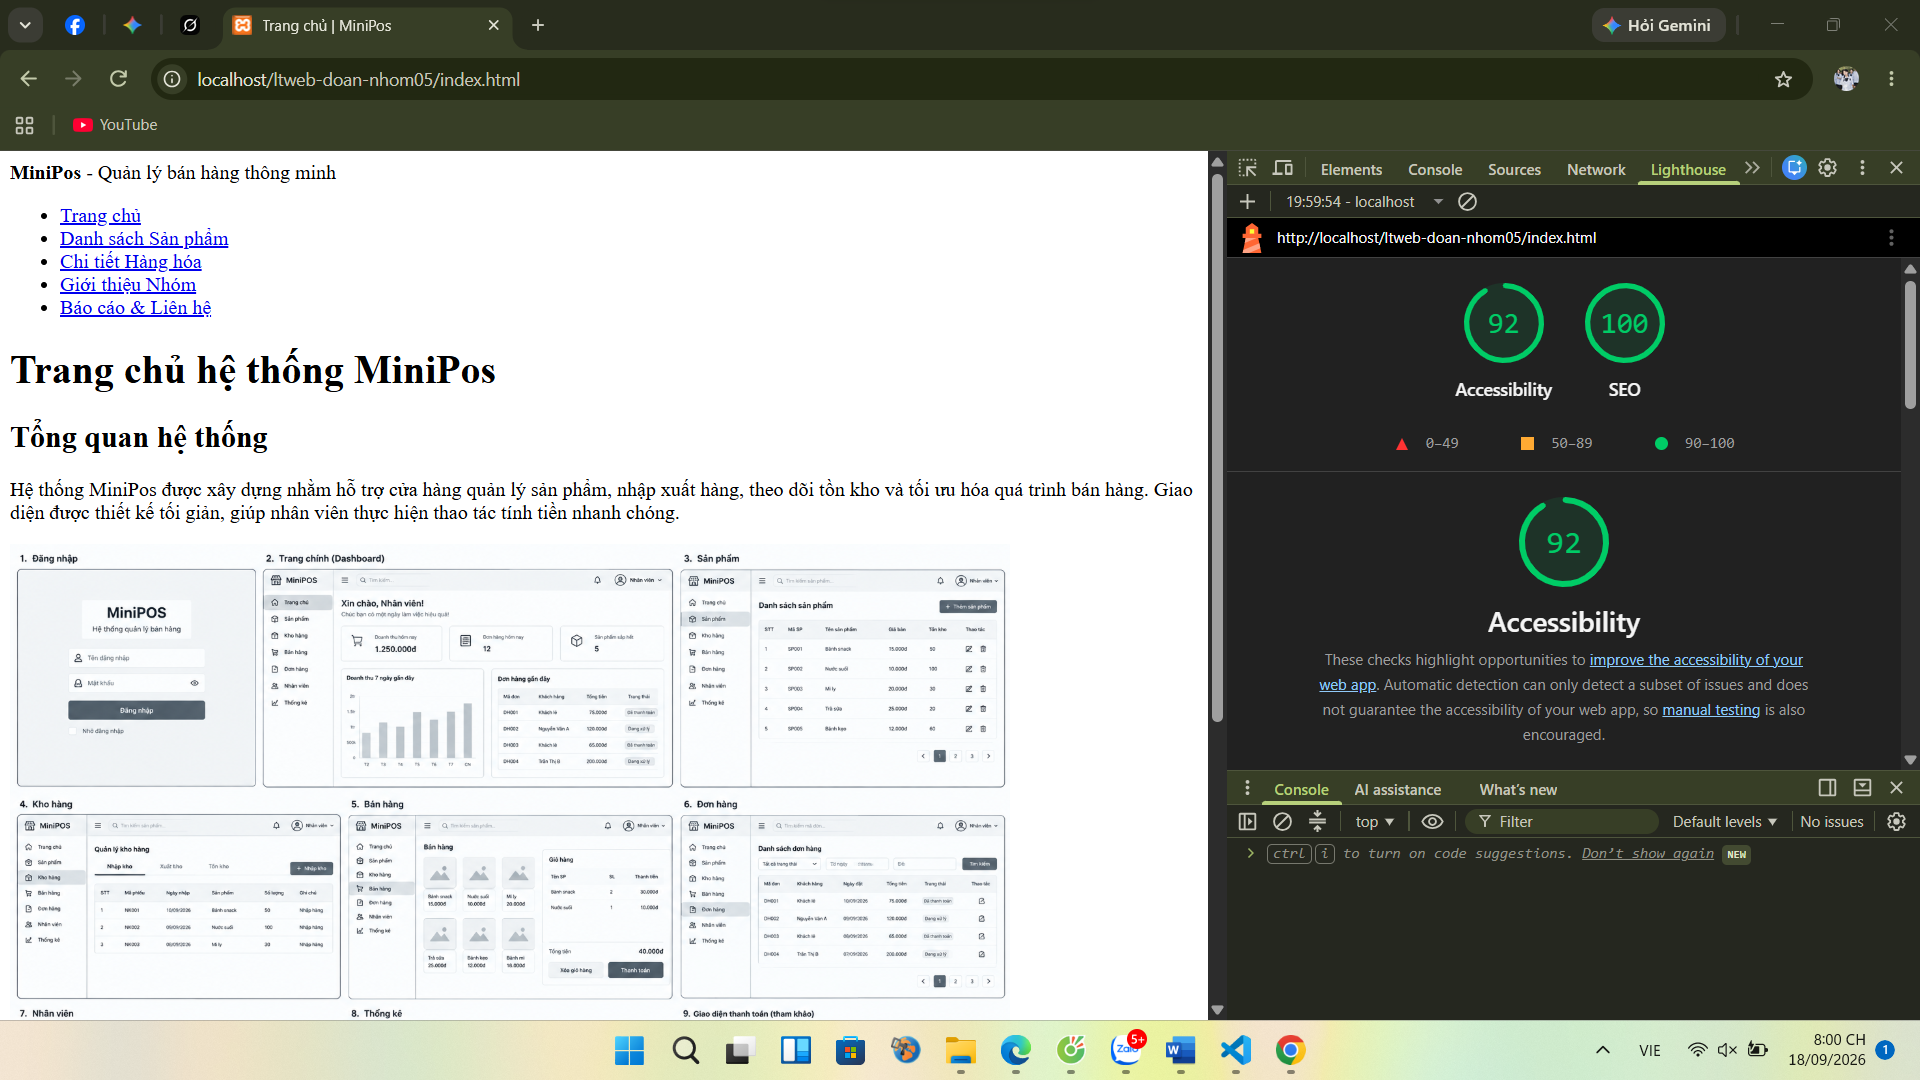
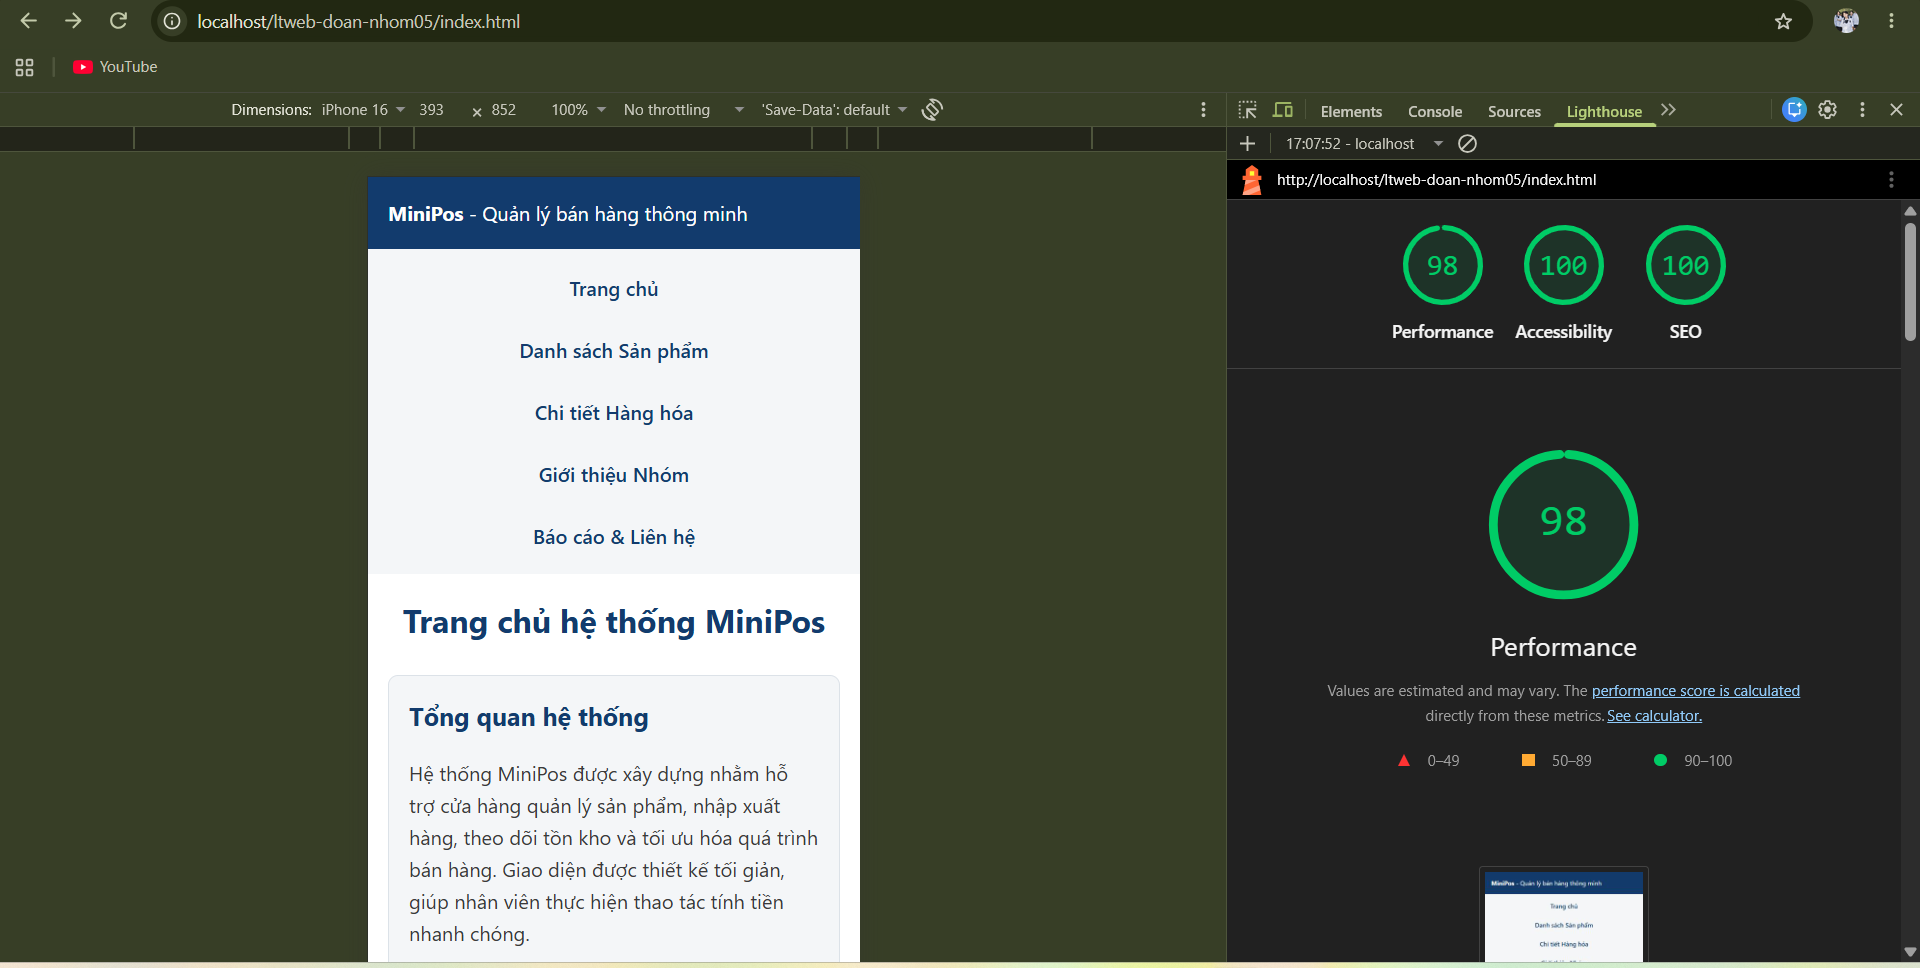
Luy cap nhat

diff --git a/index.html b/index.html
@@ -33,7 +33,7 @@
             <p>Hệ thống MiniPos được xây dựng nhằm hỗ trợ cửa hàng quản lý sản phẩm, nhập xuất hàng, theo dõi tồn kho và
                 tối ưu hóa quá trình bán hàng. Giao diện được thiết kế tối giản, giúp nhân viên thực hiện thao tác tính
                 tiền nhanh chóng.</p>
-                <img src="images/MiniPOS.png" alt="Giao diện hệ thống MiniPos"
+                <img src="images/MiniPOS.webp" alt="Giao diện hệ thống MiniPos"
                 width="800" height="533">
         </section>
 

diff --git a/danh-sach.html b/danh-sach.html
@@ -43,7 +43,7 @@
 
             <article class="the-san-pham">
                 <img
-                    src="images/lay.png"
+                    src="images/lays.png"
                     alt="Sản phẩm bánh snack"
                     width="800"
                     height="533">
@@ -59,7 +59,7 @@
 
             <article class="the-san-pham">
                 <img
-                    src="images/AQUAFINA.png"
+                    src="images/AQUAFINA.webp"
                     alt="Sản phẩm nước suối"
                     width="800"
                     height="533">

diff --git a/danh-sach-bootstrap.html b/danh-sach-bootstrap.html
@@ -77,7 +77,7 @@
         <article class="card h-100 shadow-sm">
 
             <img
-                src="images/lay.png"
+                src="images/lays.png"
                 class="card-img-top"
                 alt="Sản phẩm bánh snack"
                 width="800"
@@ -112,7 +112,7 @@
         <article class="card h-100 shadow-sm">
 
             <img
-                src="images/AQUAFINA.png"
+                src="images/aqua.webp"
                 class="card-img-top"
                 alt="Sản phẩm nước suối"
                 width="800"

diff --git a/chi-tiet.html b/chi-tiet.html
@@ -42,7 +42,7 @@
 
             <figure>
                 <img
-                    src="images/AQUAFINA.png"
+                    src="images/aqua.webp"
                     alt="Chai nước suối đóng chai Aquafina"
                     width="350"
                     height="400">
